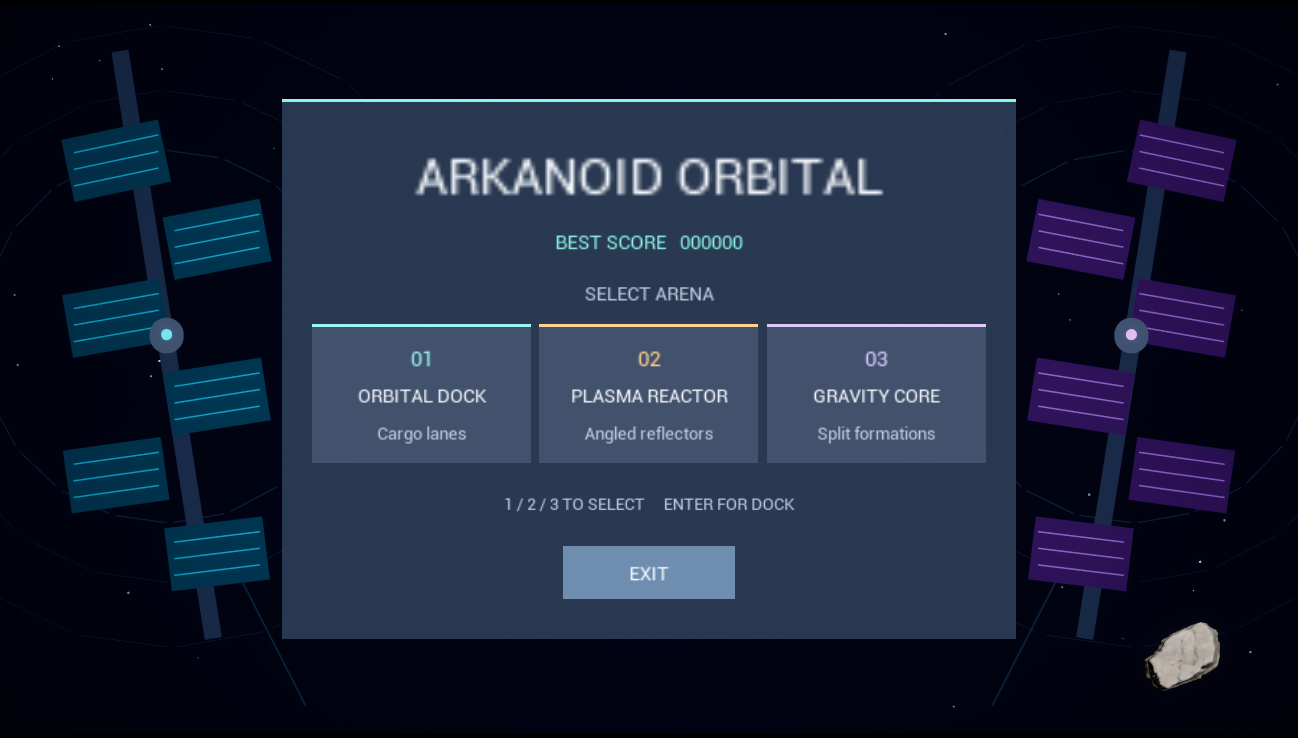
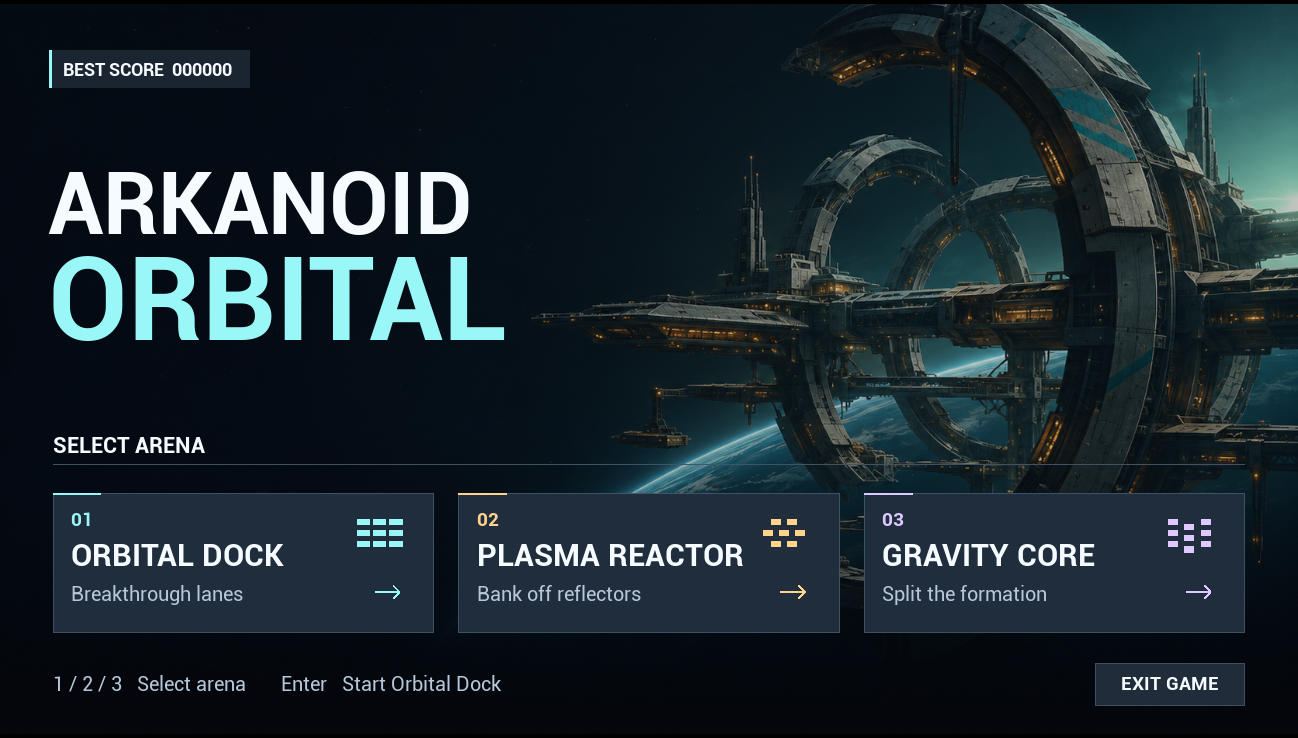
Обновить скриншоты и инструкцию для версии 2.1

diff --git a/README.md b/README.md
@@ -20,7 +20,7 @@ Arkanoid Orbital — аркада о расчистке трёх отсеков 
 
 ### Запуск дипломной версии
 
-- **Windows.** Скачайте `Arkanoid_Orbital_Windows.zip` из [Releases](https://github.com/Faluev/Arkanoid/releases/tag/v2.1.0), распакуйте весь архив и запустите `Windows/Arkanoid.exe`.
+- **Windows.** Скачайте `Arkanoid_Orbital_Windows_2.1.0.zip` из [Releases](https://github.com/Faluev/Arkanoid/releases/tag/v2.1.0), распакуйте весь архив и запустите `Windows/Arkanoid.exe`.
 - **Unreal Editor.** Откройте `Arkanoid.uproject` в UE 5.8.4. Для компиляции нужны MSVC v143 и Windows SDK. Стартовая карта `L_OrbitalMenu`. Для проверки конкретной арены откройте одну из трёх карт в `Content/Arkanoid/Maps`.
 
 Оформление дипломной версии 2.1.0 входит в репозиторий. Три арены, модели астероидов и станции, материалы, иллюстрация для меню и звуки лежат в `Content/Arkanoid`. В редакторе и в Windows-сборке используются эти же ассеты. Для запуска диплома достаточно проекта и Unreal Engine, установка Fab не требуется.
